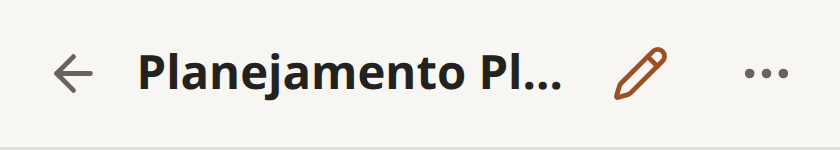
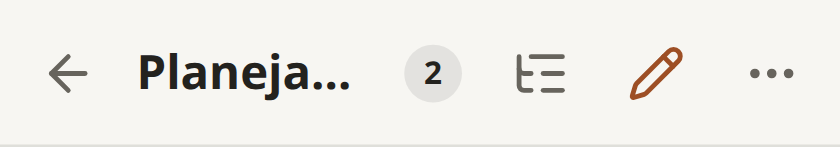
fix(mobile): limpa o cabeçalho da nota e dá espaço ao título

diff --git a/src/mobile/mobile-shell.jsx b/src/mobile/mobile-shell.jsx
@@ -104,7 +104,7 @@ import { noteTasks, syncLinkedTasks, taskSettings, toggleTask } from '../tasks.j
 import { ensureDocumentTitles } from '../title.js'
 import { GuideLibrary, guideDocument, guideTarget } from '../components/guide-library.jsx'
 import { LANGUAGES, currentLanguage, t } from '../i18n.js'
-import { makeTaskNote } from '../task-note.js'
+import { isTaskNote, makeTaskNote } from '../task-note.js'
 import { setOwnTemplates, setTemplateProfile } from '../templates.js'
 import { FONT_SIZE } from '../storage.js'
 import { useInsets, useKeyboardOpen } from './use-insets.js'
@@ -1121,7 +1121,7 @@ function MobileWorkspace({ persistence, loaded, onReload }) {
             <CheckCheck size={22} />
           </button>
         )}
-        {!editing && (
+        {!active && !editing && (
           <button
             className="mobile-icon"
             aria-label={t('mobile.commandsTitle')}
@@ -1192,7 +1192,7 @@ function MobileWorkspace({ persistence, loaded, onReload }) {
             {sourceMode ? <FileText size={22} /> : <Code2 size={22} />}
           </button>
         )}
-        {active && !editing && (
+        {active && !editing && (boardView || isTaskNote(active.body)) && (
           <button
             className="mobile-icon"
             aria-label={t(boardView ? 'mobile.boardOff' : 'mobile.boardOn')}
@@ -2414,18 +2414,42 @@ function MobileWorkspace({ persistence, loaded, onReload }) {
             ) : actionsNote ? (
               <>
                 {active && actionsNote.id === active.id && (
-                  <button
-                    disabled={blocked}
-                    onClick={() => {
-                      const nextCode = !sourceMode
-                      setNoteMode(active.id, nextCode)
-                      if (nextCode) setEditingId(active.id)
-                      back()
-                    }}
-                  >
-                    {sourceMode ? <FileText size={20} /> : <Code2 size={20} />}
-                    {t(sourceMode ? 'mobile.visualMode' : 'mobile.codeMode')}
-                  </button>
+                  <>
+                    <button
+                      onClick={() =>
+                        dispatch({
+                          type: 'layer',
+                          replace: true,
+                          route: { name: 'commands', prefix: '' },
+                        })
+                      }
+                    >
+                      <Command size={20} aria-hidden="true" />
+                      {t('mobile.commandsTitle')}
+                    </button>
+                    <button
+                      aria-pressed={boardView}
+                      onClick={() => {
+                        setBoardView(active.id, !boardView)
+                        back()
+                      }}
+                    >
+                      <Columns3 size={20} aria-hidden="true" />
+                      {t(boardView ? 'mobile.boardOff' : 'mobile.boardOn')}
+                    </button>
+                    <button
+                      disabled={blocked}
+                      onClick={() => {
+                        const nextCode = !sourceMode
+                        setNoteMode(active.id, nextCode)
+                        if (nextCode) setEditingId(active.id)
+                        back()
+                      }}
+                    >
+                      {sourceMode ? <FileText size={20} /> : <Code2 size={20} />}
+                      {t(sourceMode ? 'mobile.visualMode' : 'mobile.codeMode')}
+                    </button>
+                  </>
                 )}
                 <button
                   onClick={() => {

diff --git a/e2e/mobile/commands.spec.js b/e2e/mobile/commands.spec.js
@@ -77,9 +77,9 @@ test('Buscar e comandos supports > commands, # headings, Ctrl+Shift+P, and Escap
   await expect(dialog).toBeHidden()
   await expect(page.getByRole('heading', { name: 'Cronograma' })).toBeVisible()
 
-  // Inside a note, '>' shows note-specific actions and '#' shows only the open note's headings.
-  const trigger = page.getByRole('button', { name: 'Buscar e comandos', exact: true })
-  await trigger.tap()
+  // Inside a note, Buscar e comandos lives in the note actions sheet (and Ctrl+P) to keep the header uncluttered.
+  await page.getByRole('button', { name: /Ações de Projeto/ }).tap()
+  await page.getByRole('button', { name: 'Buscar e comandos', exact: true }).tap()
   await input.fill('#')
   await expect(dialog.getByRole('button', { name: 'Metas' })).toBeVisible()
   await expect(dialog.getByRole('button', { name: 'Mercado' })).toHaveCount(0)
@@ -91,7 +91,7 @@ test('Buscar e comandos supports > commands, # headings, Ctrl+Shift+P, and Escap
 
   // Escape closes the sheet cleanly.
   await page.getByRole('button', { name: 'Pronto' }).tap()
-  await trigger.tap()
+  await page.keyboard.press('Control+p')
   await expect(input).toBeFocused()
   await page.keyboard.press('Escape')
   await expect(dialog).toBeHidden()

diff --git a/src/mobile/mobile.css b/src/mobile/mobile.css
@@ -33,16 +33,16 @@
 [data-platform='mobile'] .mobile-header {
   display: flex;
   align-items: center;
-  gap: 4px;
+  gap: 2px;
   min-height: 56px;
   flex-shrink: 0;
-  padding: 4px 12px;
+  padding: 4px 8px;
   border-bottom: 1px solid var(--line);
 }
 [data-platform='mobile'] .mobile-header h1 {
   flex: 1;
   min-width: 0;
-  margin: 0;
+  margin: 0 4px 0 0;
   font-size: 1.125rem;
   font-weight: 650;
   overflow: hidden;
@@ -507,7 +507,10 @@ html[data-keyboard='opening'] [data-platform='mobile'] .mobile-bottom {
   white-space: nowrap;
 }
 [data-platform='mobile'] .mobile-header > button {
-  flex: 0 0 48px;
+  flex: 0 0 44px;
+  width: 44px;
+  min-width: 44px;
+  min-height: 44px;
   padding: 0;
 }
 [data-platform='mobile'] .mobile-drawer-scrim {
@@ -1215,9 +1218,9 @@ html[data-keyboard='opening'] [data-platform='mobile'] .mobile-bottom {
   background: none;
 }
 [data-platform='mobile'] .document-outline.mobile-outline > button {
-  width: 48px;
-  min-width: 48px;
-  min-height: 48px;
+  width: 44px;
+  min-width: 44px;
+  min-height: 44px;
   display: inline-flex;
   align-items: center;
   justify-content: center;

diff --git a/src/mobile/nav-stack.js b/src/mobile/nav-stack.js
@@ -74,7 +74,12 @@ export function navigate(state, action) {
       return { screens: [...state.screens, copyRoute(action.route)], layers: [] }
     case 'layer':
       return validRoute(action.route, layers)
-        ? { ...state, layers: [...state.layers, copyRoute(action.route)] }
+        ? {
+            ...state,
+            layers: action.replace
+              ? [...state.layers.slice(0, -1), copyRoute(action.route)]
+              : [...state.layers, copyRoute(action.route)],
+          }
         : state
     case 'position': {
       const screens = [...state.screens]
@@ -195,7 +200,8 @@ export function createNavigation({ history, events, storage, noteExists, onChang
       const next = navigate(state, action)
       if (next === state) return
       state = next
-      if (action.type === 'push' || action.type === 'layer') history.pushState(entry(), '')
+      if (action.type === 'push' || (action.type === 'layer' && !action.replace))
+        history.pushState(entry(), '')
       else history.replaceState(entry(), '')
       publish()
     },

diff --git a/changelog/0.42.1.md b/changelog/0.42.1.md
@@ -1,0 +1,11 @@
+# Sloth Note 0.42.1
+
+> Cabeçalho da nota no celular mais limpo e com espaço para o título.
+
+## Alterado
+
+- No celular, **Buscar e comandos** saiu do topo da nota aberta e passou para a folha **Ações da nota** (`⋯`), continuando disponível no topo das telas principais e pelos atalhos `Ctrl+P` e `Ctrl+Shift+P`.
+- O botão **Ver como quadro** aparece no topo da nota apenas em notas de tarefas ou quando o modo Quadro está ativo; nas demais notas, pode ser aberto pela folha **Ações da nota** (`⋯`).
+- Os botões do cabeçalho mobile passaram a ter 44 px de largura com menor espaçamento entre si, deixando mais espaço livre para o título da nota.
+
+![Cabeçalho compacto da nota no celular](/changelog/mobile-header-compact.png)

diff --git a/CHANGELOG.md b/CHANGELOG.md
@@ -2,6 +2,10 @@
 
 Formato baseado em [Keep a Changelog](https://keepachangelog.com/pt-BR/1.1.0/); versões seguem [SemVer](https://semver.org/lang/pt-BR/).
 
+## [0.42.1] — 2026-11-25
+
+Cabeçalho da nota no celular mais limpo e com espaço para o título, mantendo Buscar e comandos e o modo Quadro acessíveis no menu Ações da nota. Veja os [detalhes da versão](changelog/0.42.1.md).
+
 ## [0.42.0] — 2026-11-25
 
 Notas fixadas no topo da lista no celular, datas de conclusão e cancelamento em etiquetas, melhorias em colunas, tabelas e rolagem do editor, e atualização imediata de imagens sincronizadas. Veja os [detalhes da versão](changelog/0.42.0.md).
